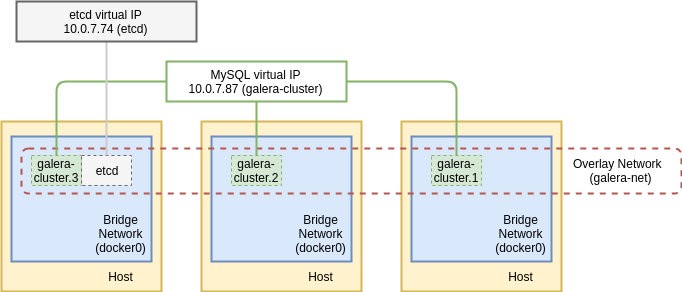
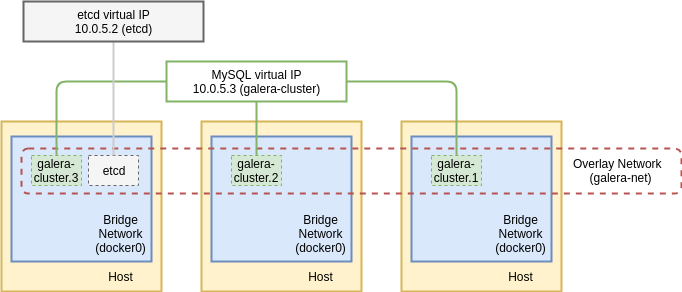
update mysql_galera_etcd doc + diagram

diff --git a/docs/20180417_mariadb_galera_cluster.md b/docs/20180417_mariadb_galera_cluster.md
@@ -2,132 +2,111 @@
 #### Document Objective
 - Official MariaDB image
 - Built- in Galera plugin
-- Create a master- master MariaDB cluster
+- Create a master- master MariaDB cluster with ```etcd```
 
 #### Reference
 
-[Galera cluster+ MariaDB on  Docker at withblue.ink](https://withblue.ink/2016/03/09/galera-cluster-mariadb-coreos-and-docker-part-1.html)
+Reference doc > https://coreos.com/etcd/docs/latest/v2/docker_guide.html
+
+## Architecture
+
+<img src="../imgs/20180531_mysql_galera_etcd.png">
 
 ## Deployment
 
-#### Assumption and Pre- requisite
-- Must read the reference doc first!
-- MariaDB persistent volume mount = ```/data/mariadb/mysql``` in this doc
-- A configuration file of Galera ```mysql_server.cnf``` is copied to ```/data/mariadb/etc/mysql.conf.d``` (where ```/data/mariadb/``` is persistent volume)
-- ```mariadb-node-0,mariadb-node-1,mariadb-node-2``` (they're node names to host MariaDB cluster) in ```mysql.conf.d/mysql_server.cnf``` need to reflect your actual domain resolving
-
-Configuration File
-
-- ```mysql-server.cnf```
-
+- Export ```etcd``` IP on Swarm manager node, where to launch all the following services
 ```
-#
-# Galera Cluster: mandatory settings
-#
-
-[server]
-bind-address=0.0.0.0
-binlog_format=row
-default_storage_engine=InnoDB
-innodb_autoinc_lock_mode=2
-innodb_locks_unsafe_for_binlog=1
-query_cache_size=0
-query_cache_type=0
-
-[galera]
-wsrep_on=ON
-wsrep_provider="/usr/lib/galera/libgalera_smm.so"
-wsrep_cluster_address="gcomm://mariadb-node-0,mariadb-node-1,mariadb-node-2"
-wsrep-sst-method=rsync
-
-#
-# Optional setting
-#
-
-# Tune this value for your system, roughly 2x cores; see https://mariadb.com/kb/en/mariadb/galera-cluster-system-variables/#wsrep_slave_threads
-# wsrep_slave_threads=1
-
-# innodb_flush_log_at_trx_commit=0
+export HostIP="10.0.0.17"
 ```
 
-Where ```gcomm://mariadb-node-0,mariadb-node-1,mariadb-node-2``` could be ```wsrep_cluster_address="gcomm://10.0.1.6,10.0.1.2,10.0.1.10"```
-
-#### On 1st node
+- Create an overlay network
 
 ```
-docker run \
-  --name mariadb-0 -d \
-  -v /data/mariadb/etc/mysql.conf.d:/etc/mysql/conf.d \
-  -v /data/mariadb/maria_data/:/var/lib/mysql \
-  -e MYSQL_INITDB_SKIP_TZINFO=yes \
-  -e MYSQL_ROOT_PASSWORD=mysecret \
+docker network create galera-net --driver=overlay
+```
+
+- Create service of ```etcd``` on any Swarm manager node
+
+> ```node.labels.host==01``` is the same node of ```HostIP```
+
+```
+docker service create --name etcd --replicas 1 --network galera-net \
+  --constraint node.labels.host==01 \
+  -p 4001:4001 -p 2380:2380 -p 2379:2379 \
+  quay.io/coreos/etcd:v2.3.8 \
+  -name etcd0 \
+  -advertise-client-urls http://${HostIP}:2379,http://${HostIP}:4001 \
+  -listen-client-urls http://0.0.0.0:2379,http://0.0.0.0:4001 \
+  -initial-advertise-peer-urls http://${HostIP}:2380 \
+  -listen-peer-urls http://0.0.0.0:2380 \
+  -initial-cluster-token etcd-cluster-1 \
+  -initial-cluster etcd0=http://${HostIP}:2380 \
+  -initial-cluster-state new
+```
+
+- Inspect ```etcd``` service
+
+```
+docker service inspect etcd
+```
+
+```
+"VirtualIPs": [
+    {
+        "NetworkID": "s63pwshpmek9y3ra4vfey72zl",
+        "Addr": "10.255.0.31/16"
+    },
+    {
+        "NetworkID": "n6wnomdecm17kroae3ocwj2og",
+        "Addr": "10.0.5.2/24"
+    }
+]
+```
+
+Where ```10.0.5.2/24``` is IP of ```etcd```
+
+- Lauch ```mysql-galera``` cluster
+
+```
+docker service create --name mysql-galera --replicas 3 --network galera-net \
   -p 13306:3306 \
-  -p 4567-4568:4567-4568 \
-  -p 4444:4444 \
-  mariadb:latest \
-  --wsrep-new-cluster \
-  --wsrep_node_address=$(ip -4 addr ls eth0 | awk '/inet / {print $2}' | cut -d"/" -f1)
-```
-
-> Note: credit to referenced doc
-Please observe the ```--wsrep-new-cluster```, which is used to bootstrap the Galera Cluster. This flag has to be used once and only once. If you need to restart this container in the future, after the cluster has been initialized, you must __omit__ the ```--wsrep-new-cluster``` flag.
-
-#### On 2nd node and others
-
-> Note: In ```--name mariadb-X```, ```X``` reflect 2nd, 3rd nodes in cluster and so on
-
-```
-docker run \
-  --name mariadb-1 -d \
-  -v /data/mariadb/etc/mysql.conf.d:/etc/mysql/conf.d \
-  -v /data/mariadb/maria_data:/var/lib/mysql \
   -e MYSQL_ROOT_PASSWORD=mysecret \
-  -p 13306:3306 \
-  -p 4567:4567/udp \
-  -p 4567-4568:4567-4568 \
-  -p 4444:4444 mariadb:latest --wsrep_node_address=$(ip -4 addr ls eth0 | awk '/inet / {print $2}' | cut -d"/" -f1)
+  -e DISCOVERY_SERVICE=$HostIP:2379 \
+  -e XTRABACKUP_PASSWORD=mysecret \
+  -e CLUSTER_NAME=mysql_galera \
+  perconalab/percona-xtradb-cluster:5.6
 ```
 
-#### Verify the cluster
-
-On each of node, log into ```mariadb``` (mysql actually)
-
-Query command example against ```mariadb-2```
-```
-docker exec -it mariadb-2 mysql -uroot -pmysecret -e "show status like 'wsrep_local_state_comment'"
-```
-
-The output should be:
-```
-+---------------------------+--------+
-| Variable_name             | Value  |
-+---------------------------+--------+
-| wsrep_local_state_comment | Synced |
-+---------------------------+--------+
-```
-
-Or
+- After lauching finishes, check the cluster status
 
 ```
-MariaDB [(none)]> show status like 'wsrep_%';
+docker exec -it $(docker ps -f name=mysql | awk '{print $1}' | grep -v CONTAINER) \
+  mysql -uroot -pmysecret -hlocalhost -e "show status like '%wsrep_incoming%'"
 ```
 
 ```
-+------------------------------+--------------------------------------------+
-| Variable_name                | Value                                      |
-+------------------------------+--------------------------------------------+
-| wsrep_apply_oooe             | 0.000000                                   |
-| wsrep_apply_oool             | 0.000000                                   |
-| wsrep_apply_window           | 1.000000                                   |
-| wsrep_causal_reads           | 0                                          |
-| wsrep_cert_deps_distance     | 1.000000                                   |
-| wsrep_cert_index_size        | 3753                                       |
-| wsrep_cert_interval          | 0.000000                                   |
-| wsrep_cluster_conf_id        | 3                                          |
-| wsrep_cluster_size           | 3                                          |
-| wsrep_cluster_state_uuid     | 4c90025e-41e6-11e8-aee1-5b87fd582640       |
-| wsrep_cluster_status         | Primary                                    |
-...
-| wsrep_gcomm_uuid             | aad3574b-41f7-11e8-a743-1be43ad13318       |
-| wsrep_incoming_addresses     | 10.0.1.6:3306,10.0.1.2:3306,10.0.1.10:3306 |
++--------------------------+-------------------------------------------+
+| Variable_name            | Value                                     |
++--------------------------+-------------------------------------------+
+| wsrep_incoming_addresses | 10.0.5.7:3306,10.0.5.6:3306,10.0.5.5:3306 |
++--------------------------+-------------------------------------------+
+```
+
+- Inspect service of ```mysql-galera```
+
+```
+docker service inspect mysql-galera
+```
+
+```
+"VirtualIPs": [
+    {
+        "NetworkID": "s63pwshpmek9y3ra4vfey72zl",
+        "Addr": "10.255.0.33/16"
+    },
+    {
+        "NetworkID": "n6wnomdecm17kroae3ocwj2og",
+        "Addr": "10.0.5.4/24"
+    }
+]
 ```
